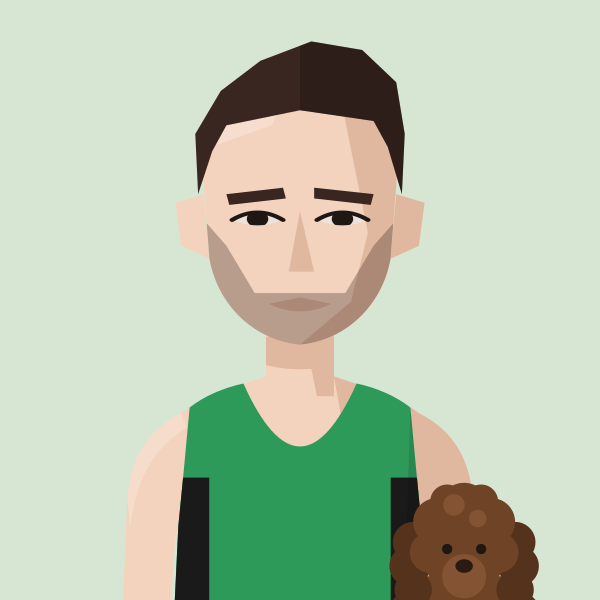
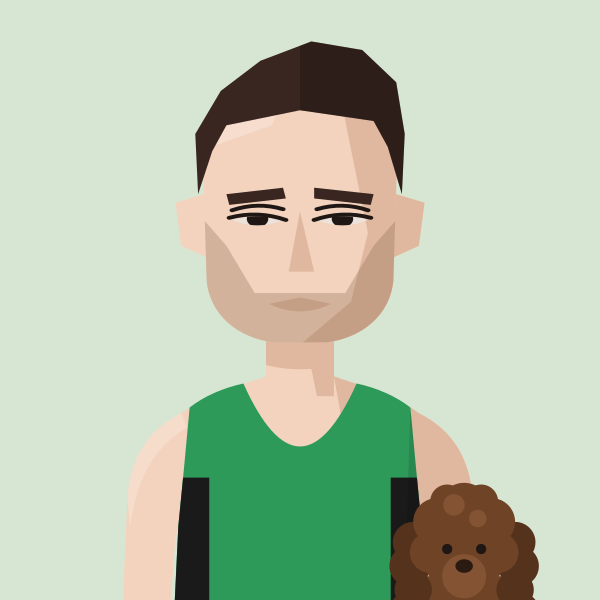
Redraw John Sanderson: hooded eyes, square jaw, light stubble, dark quiff
Claude-Session: https://claude.ai/code/session_01MgmDWhFqnSSnP4iBLKXUZC

Changed region(s): [[0.33, 0.33, 0.66, 0.6], [0.39, 0.33, 0.48, 0.39]]

diff --git a/files/index.html b/files/index.html
@@ -686,7 +686,7 @@ return m;})();
 const portraitFile=(name,club)=>{const k=normalizeNameForCompare(name||'').replace(/\s*\(([^)]*)\)$/,(m,c)=>CLUBS[c.toUpperCase()]?'':m);const a=PORTRAITS[k];if(a&&a.club===club)return a.file;const b=PORTRAITS[k+'@'+club];return b?b.file:null;};
 // Athlete header figure: superstar portrait if we have one, else a grey runner in the club vest, else the plain vest icon
 // Changes whenever any portrait changes (set by tools/build_og.py), so browsers fetch fresh images instead of old cached ones
-const PORTRAIT_V='7fd10700';const PORTRAIT_WOMEN='abbey-brooke,abbie-bulbulian,adele-prince,aimee-hargreaves,aisling-ahern,alex-brown,alex-gandee,alex-marginean,alex-miller,alexa-parker,alexandra-barbour,alice-braham,alice-bridger-morales,alice-crane,alice-martin,alice-reed,alice-smith,alison-purnell,alison-thomson,amy-clements,andrea-barber,anika-schwarze-chintapatla,anna-garnier,anna-garnier-hw,anna-sharp,annabel-hobday,annabelle-hadlow,anne-hegvold,annmarie-seymour,ava-mcandie,becky-briggs,bethan-goddard,bethanie-murray,bethany-brown,betsy-griffiths,billie-mcclosky,camilla-barden,caoimhe-nic-fhogartaigh,carolyne-baxter,catherine-bryson,catherine-eastham,catherine-kandie,cathy-ansell,charlotte-griffiths,chloe-beckett,chloe-tighe,chrissie-wellington,claire-grima,clara-pettit,clare-elms,clare-pauzers,dillan-quinn,dorchie-cockerell,eilidh-hide,elinor-skinner,eliza-grant,elizabeth-apsley,elizabeth-stavreski,ella-fennelly,ella-king-powrie,ella-may-hards,ella-newton,ellie-brown,ellie-freeden,eloise-bull,emilie-arnoux,emily-barrett,emily-bradley,emily-lowery,emily-robbins,emma-gordon,emma-howsham,emma-lord,emma-rowland,estle-viljoen,evie-warren,felicity-cole,felicity-harrison,felicity-hayward,fi-maddocks,fiona-de-mauny,florence-wiggins,gabby-collison,gabriel-reynolds,gemma-newport,genevieve-blanch,georgia-curry,georgie-bruinvels,georgie-fenn,georgie-furze,georgie-grgec,gina-galbraith,grace-leyland,grace-richardson,hannah-edwards,hannah-english,heather-statham,heather-statham-cc,helena-corbin,helena-keenan,holly-nixon,holly-pan,imogen-mackie,imogen-wolsey,iona-cousland,isabel-bradley,isabel-brinsden,isabelle-pickett,isobel-hodder,jennifer-nandi,jennifer-smith,jess-reed,jess-saunders,jess-winfield,jessica-davies,jessica-lowe,jodie-favell,josephine-rhodes,julia-bleasdale,julia-wedmore,juliet-hodder,jurgita-levertaviciute,justine-lynch,karen-fenner,karen-xiang,karina-box,kate-axford,kate-williams,kathy-sharpe,katie-ellen-french,katie-good,katie-snowden,katy-hedgethorne,kitty-shepherd-cross,kristina-popadich,lara-bromilow,lara-mangan,laura-goodson,laura-miles,lauren-major,lea-adamson,lily-newton,lisa-bailey,lisa-thomas,lisa-thomas-hw,lizzie-goldie-scot,louise-cooper,lucy-jones,lucy-macalister,lucy-peters,lydia-blackmore,lydia-gallyer-barnett,maddie-mastrolonardo,maddy-whitman,maeve-kenny,margaret-coogan,martina-conner,mary-james,mary-setyabule,matilde-lomba,megan-gildea,mhairi-hall,mimi-corden-lloyd,molly-oconnor,molly-smith,monika-gajek,naomi-lenane,natalie-beadle,natalie-seymour,natasha-lodge,niamh-thompson,nicky-hayes,nicola-cartlidge,nicola-douglas,nikki-sturzaker,olivia-papaioannou,olivia-stillman,orna-mcginley,pamela-mchutchon,patricia-walker,patrizia-gnoato,penny-oliver,rachel-brown,rebecca-barrow,rebekah-edgar,ruby-carter,ruby-whyte-wilding,ruby-woolfe,sally-urquhart,sam-whiting,samantha-munday,sarah-astin,sarah-dewhirst,sarah-grover,sarah-hanley,sarah-holt,sarah-murphy,sarah-palmer,sarah-palmer-ran,sarah-riceman,sarah-young,saron-haileselase,serena-carter,sophie-cowper,sophie-harris,sophie-hicks,sophie-tooley,stacey-ward,steph-hewitt,steph-mccall,steph-mccall-cc,steph-mccall-slh,steph-mitchell,suzanne-swaine,suze-spalding,suzie-harvey,suzy-whatmough,teresa-murphy,tilly-heaton,tilly-heaton-bel,vic-cartwright,vicky-clarke,victoria-barthelmess,victoria-buck,vikki-filsell,zoe-macdonald,zuzana-nemeckova';const PORTRAIT_MEN='aaron-wilson,abdulla-elsadig,adam-leane,adrian-major,adrien-royer,alan-black,alan-mead,alex-brecker,alex-bruce-littlewood,alex-gutteridge,alex-harris,alex-howard,alex-janiaud,alex-lee,alex-lennon,alex-mills,alex-milne,alex-morales,alex-robinson,alex-yee,alexander-marks,amittai-ben-israel,andrew-cumine,andrew-green,andrew-penney,andrew-perfect,andrew-simms,andrew-warburton,andrius-jaksevicius,andy-coley-maud,andy-coley-maud-cc,andy-fyfe,andy-north,andy-paton,andy-weir,angus-butler,angus-lamb,anisse-ismaili,arlo-ludewick,arne-dumez,arthur-peel,ashley-goncalves,barnaby-day,barry-collins,barry-sawyer,ben-clarke,ben-harding,ben-hurley,ben-ireland,ben-millar,ben-paviour,ben-pearce,ben-racle,ben-revill,ben-reynolds,ben-scott,ben-toomer,benedict-whitby,benjamin-hilson,bernie-ford,bill-kerr,bill-weller,bill-weller-wal,bob-harrison,bob-holt,bob-lunnon,bob-rayman,bob-smith,bradley-courtney-pinn,brandon-dewar,brian-gorman,brian-wilder,caleb-hathaway,callum-stewart,cameron-dockerill,cameron-reilly,carl-delaney,charles-herrington,charlie-dabbs,charlie-dickinson,charlie-eastaugh,charlie-manning,charlie-pickett,charlie-rogers,charlie-sandison,charlie-walker,charlie-wyllie,che-compton,chris-busaileh,chris-busaileh-hhh,chris-greenwood,chris-keavey,chris-moss,chris-steer,chris-threadgold,chris-warren,christian-lee,christopher-parker,clive-gilby,clive-shippen,colin-high,colin-pearson,conall-mcnally,conall-whelan,craig-ruddy,dame-dibaba,dan-cliffe,dan-pettitt,daniel-shaw,daniel-wolff,dave-beard,dave-beaver,dave-glassborow,dave-holt,dave-taylor,david-anderson,david-bowers,david-grima,david-north,david-ogden,david-symons,david-walsh,david-williams,deron-fagan,dick-piotrowski,dimos-evangelidis,dominic-kiralyfi,don-anderson,don-faircloth,don-maclean,doug-maughan,duncan-rimmer,dylan-evans,dylan-mitchard,ed-brewer,ed-catmur,ed-gibson,ed-mallett,eddie-herridge,eddie-jodrell,eddie-rolls,edward-chuck,eoin-brady,eoin-molloy,ethan-mccolgan,falilou-kebe,findlay-dyer,finn-johnson,fintan-pearce,frank-tickner,frank-ward,fred-paget,fred-slemeck,freddie-hessian,garret-lee,gary-ribbons,gary-ribbons-ee,gary-staines,gavin-eccles,geoff-biscoe,geoff-jerwood,geoff-north,george-cotton,george-gathercole,george-jackson,george-loxton,george-mallett,george-ogden,gerry-adams,gerry-north,glen-keegan,gordon-pearce,graham-macky,harrison-hayman,harry-guttridge,hector-revill,henry-hart,henry-silverstein,hugo-hewitt,ian-acreman,ian-crowe-wright,ian-ellwood,ian-harkness,indy-barnes,isaac-lutaya,isaac-parker,jack-brotchie,jack-dickson,jack-dormer,jack-hampshire,jack-harrison,jack-hobden,jack-kavanagh,jack-millar,jack-ramm,jack-woods,jacob-brockmann,jake-simmonds,james-bartram,james-blackwood,james-bowler,james-estall,james-ewing,james-fox,james-hancock,james-harvey,james-hoad,james-kelly,james-mcmullan,james-murray,james-nutt,james-preston,james-roberts,james-stockings,james-ward,james-wootton,jamie-crowe,jamie-parkinson,jared-martin,jean-paul-wright,jeff-cunningham,jeremy-dempsey,jermaine-mays,jerry-watson,jim-allchin,jim-rimmer,joe-english,joe-hartley,john-baker,john-bicourt,john-bromley,john-davies,john-dear,john-foss,john-foxall,john-gilbert,john-gladwin,john-hutchins,john-kendall,john-kimaiyo,john-lee,john-lethbridge,john-mather,john-moore,john-roberts,john-sanderson,john-stow,john-sullivan,john-thresher,jon-hobbs,jon-pepper,jon-pepper-slh,jon-phillips,jon-solly,jonathan-cocker,jonathan-collier,jonathan-cornish,jonathan-ratcliffe,jonathan-tipper,jonathon-blackledge,jonny-neville,jonny-scott,jordan-weaver,josh-mitchell,josh-snow,josh-trigwell,jules-gevers,junior-galley,justin-chaston,justin-reid,kassa-tadesse,keith-newton,kevin-nash,kevin-quinn,kevin-sturman,kieran-barnes,kieran-white,knut-hegvold,knut-hegvold-bel,larry-ryan,lawrence-avery,lee-lintern,lewis-lloyd,liam-burthem,lionel-mann,lloyd-kempson,luke-caldwell,mack-downie,malachi-byansi,marcello-bizio,marcelo-fortes,marco-mazzotta,mark-anderson,mark-miles,mark-sinclair,mark-tennyson,mark-waller,martin-dent,martin-lake,martin-lewington,martin-shore,mathew-speed,matt-chaston,matt-jones,matt-wood,matthew-edgar,matthew-houchell,matthew-thomas,matthew-varley,max-bloor,max-heyden,max-milarvie,max-nicholls,michael-baker,michael-mccarthy,mick-woods,mike-beevor,mike-boyle,mike-cummings,mike-farmery,mike-fuller,mike-hayes,mike-kortenray,mike-nouch,mohammed-ismail,monty-hudson,morgan-roberts,nathan-visick,neil-chisholm,neil-phillips,neil-speaight,neil-wilson,nic-lukies,nick-acfield,nick-altmann,nick-bester,nick-bester-hhh,nick-buckle,nick-bundle,nick-goolab,nick-lightfoot,nick-morris,nick-torry,noah-fernandez,norman-stairs,oli-carrington,oliver-carrington,oliver-fox,oliver-reynolds,oliver-young,ollie-foote,ollie-garrod,olly-buck,owen-hind,paddy-roddy,pancho-panchev,paskar-owor,pat-newell,patrick-mcdougall,paul-calver,paul-cheetham,paul-freary,paul-magner,paul-pollock,pete-carton,pete-gardner,peter-clarke,peter-giles,peter-giles-thh,peter-lighting,phil-carstairs,phil-sanders,phil-sesemann,phil-swinburn,phil-wicks,phil-woodford-smith,raj-paranandi,ralph-street,ranjit-bhatia,ray-foley,reece-edwards,rhys-boorman,rian-mccawley,richard-ashe,richard-giles,richard-henderson,richard-langley,richard-mcdowell,richard-ollington,richard-partridge,richard-sun,richard-ward,rob-armstrong,rob-kelly,rob-tuer,robert-elphick,robert-laing,robert-norville,robert-peacock,robert-sesemann,robin-boon,robin-hudson,roger-alsop,roger-alsop-bel,ron-clark,ron-linstead,ronan-tanguy,rory-mcmahon,rory-orsborn,ross-christie,rowan-board,rowan-crichton,russell-dessaix-chin,ryan-hickey,ryan-mccallister,sam-bramwell,sam-charlton,sam-gebreselassie,sam-peters,sam-sommerville,sam-tyas,samuel-dames,samuel-wilcock,sean-cordon,sebastian-anthony,simon-baines,simon-coombes,simon-coppard,simon-holmes,simon-rayner,simon-rayner-hw,simon-wade,simon-wade-hhh,simon-waterhouse,simon-williams,simon-wurr,sonny-nicoll,spencer-barden,stephen-mcleod,stephen-sharp,steve-gardner,steve-jones,steve-smythe,steve-smythe-hhh,stuart-beaney,stuart-major,stuart-major-thh,stuart-mccallum,stuart-paton,terry-booth,thomas-dugre,thomas-gandee,thomas-gardner,thomas-renshaw,tim-alexander,tim-eglen,tim-lawrence,tim-watson,toby-cooke,toby-fletcher,tom-austin,tom-cheetham,tom-conlon,tom-davies,tom-gifford,tom-jervis,tom-lole,tom-south,tom-thornley,tommy-taylor,tony-binda,tony-fairclough,tony-harran,trevor-hart,valdis-pauzers,valentin-rigori,vic-maughan,will-cockerell,will-lewis,will-marshall,will-scott,will-stockley,william-gardner,yacin-yusuf,zach-nolan';
+const PORTRAIT_V='ead80890';const PORTRAIT_WOMEN='abbey-brooke,abbie-bulbulian,adele-prince,aimee-hargreaves,aisling-ahern,alex-brown,alex-gandee,alex-marginean,alex-miller,alexa-parker,alexandra-barbour,alice-braham,alice-bridger-morales,alice-crane,alice-martin,alice-reed,alice-smith,alison-purnell,alison-thomson,amy-clements,andrea-barber,anika-schwarze-chintapatla,anna-garnier,anna-garnier-hw,anna-sharp,annabel-hobday,annabelle-hadlow,anne-hegvold,annmarie-seymour,ava-mcandie,becky-briggs,bethan-goddard,bethanie-murray,bethany-brown,betsy-griffiths,billie-mcclosky,camilla-barden,caoimhe-nic-fhogartaigh,carolyne-baxter,catherine-bryson,catherine-eastham,catherine-kandie,cathy-ansell,charlotte-griffiths,chloe-beckett,chloe-tighe,chrissie-wellington,claire-grima,clara-pettit,clare-elms,clare-pauzers,dillan-quinn,dorchie-cockerell,eilidh-hide,elinor-skinner,eliza-grant,elizabeth-apsley,elizabeth-stavreski,ella-fennelly,ella-king-powrie,ella-may-hards,ella-newton,ellie-brown,ellie-freeden,eloise-bull,emilie-arnoux,emily-barrett,emily-bradley,emily-lowery,emily-robbins,emma-gordon,emma-howsham,emma-lord,emma-rowland,estle-viljoen,evie-warren,felicity-cole,felicity-harrison,felicity-hayward,fi-maddocks,fiona-de-mauny,florence-wiggins,gabby-collison,gabriel-reynolds,gemma-newport,genevieve-blanch,georgia-curry,georgie-bruinvels,georgie-fenn,georgie-furze,georgie-grgec,gina-galbraith,grace-leyland,grace-richardson,hannah-edwards,hannah-english,heather-statham,heather-statham-cc,helena-corbin,helena-keenan,holly-nixon,holly-pan,imogen-mackie,imogen-wolsey,iona-cousland,isabel-bradley,isabel-brinsden,isabelle-pickett,isobel-hodder,jennifer-nandi,jennifer-smith,jess-reed,jess-saunders,jess-winfield,jessica-davies,jessica-lowe,jodie-favell,josephine-rhodes,julia-bleasdale,julia-wedmore,juliet-hodder,jurgita-levertaviciute,justine-lynch,karen-fenner,karen-xiang,karina-box,kate-axford,kate-williams,kathy-sharpe,katie-ellen-french,katie-good,katie-snowden,katy-hedgethorne,kitty-shepherd-cross,kristina-popadich,lara-bromilow,lara-mangan,laura-goodson,laura-miles,lauren-major,lea-adamson,lily-newton,lisa-bailey,lisa-thomas,lisa-thomas-hw,lizzie-goldie-scot,louise-cooper,lucy-jones,lucy-macalister,lucy-peters,lydia-blackmore,lydia-gallyer-barnett,maddie-mastrolonardo,maddy-whitman,maeve-kenny,margaret-coogan,martina-conner,mary-james,mary-setyabule,matilde-lomba,megan-gildea,mhairi-hall,mimi-corden-lloyd,molly-oconnor,molly-smith,monika-gajek,naomi-lenane,natalie-beadle,natalie-seymour,natasha-lodge,niamh-thompson,nicky-hayes,nicola-cartlidge,nicola-douglas,nikki-sturzaker,olivia-papaioannou,olivia-stillman,orna-mcginley,pamela-mchutchon,patricia-walker,patrizia-gnoato,penny-oliver,rachel-brown,rebecca-barrow,rebekah-edgar,ruby-carter,ruby-whyte-wilding,ruby-woolfe,sally-urquhart,sam-whiting,samantha-munday,sarah-astin,sarah-dewhirst,sarah-grover,sarah-hanley,sarah-holt,sarah-murphy,sarah-palmer,sarah-palmer-ran,sarah-riceman,sarah-young,saron-haileselase,serena-carter,sophie-cowper,sophie-harris,sophie-hicks,sophie-tooley,stacey-ward,steph-hewitt,steph-mccall,steph-mccall-cc,steph-mccall-slh,steph-mitchell,suzanne-swaine,suze-spalding,suzie-harvey,suzy-whatmough,teresa-murphy,tilly-heaton,tilly-heaton-bel,vic-cartwright,vicky-clarke,victoria-barthelmess,victoria-buck,vikki-filsell,zoe-macdonald,zuzana-nemeckova';const PORTRAIT_MEN='aaron-wilson,abdulla-elsadig,adam-leane,adrian-major,adrien-royer,alan-black,alan-mead,alex-brecker,alex-bruce-littlewood,alex-gutteridge,alex-harris,alex-howard,alex-janiaud,alex-lee,alex-lennon,alex-mills,alex-milne,alex-morales,alex-robinson,alex-yee,alexander-marks,amittai-ben-israel,andrew-cumine,andrew-green,andrew-penney,andrew-perfect,andrew-simms,andrew-warburton,andrius-jaksevicius,andy-coley-maud,andy-coley-maud-cc,andy-fyfe,andy-north,andy-paton,andy-weir,angus-butler,angus-lamb,anisse-ismaili,arlo-ludewick,arne-dumez,arthur-peel,ashley-goncalves,barnaby-day,barry-collins,barry-sawyer,ben-clarke,ben-harding,ben-hurley,ben-ireland,ben-millar,ben-paviour,ben-pearce,ben-racle,ben-revill,ben-reynolds,ben-scott,ben-toomer,benedict-whitby,benjamin-hilson,bernie-ford,bill-kerr,bill-weller,bill-weller-wal,bob-harrison,bob-holt,bob-lunnon,bob-rayman,bob-smith,bradley-courtney-pinn,brandon-dewar,brian-gorman,brian-wilder,caleb-hathaway,callum-stewart,cameron-dockerill,cameron-reilly,carl-delaney,charles-herrington,charlie-dabbs,charlie-dickinson,charlie-eastaugh,charlie-manning,charlie-pickett,charlie-rogers,charlie-sandison,charlie-walker,charlie-wyllie,che-compton,chris-busaileh,chris-busaileh-hhh,chris-greenwood,chris-keavey,chris-moss,chris-steer,chris-threadgold,chris-warren,christian-lee,christopher-parker,clive-gilby,clive-shippen,colin-high,colin-pearson,conall-mcnally,conall-whelan,craig-ruddy,dame-dibaba,dan-cliffe,dan-pettitt,daniel-shaw,daniel-wolff,dave-beard,dave-beaver,dave-glassborow,dave-holt,dave-taylor,david-anderson,david-bowers,david-grima,david-north,david-ogden,david-symons,david-walsh,david-williams,deron-fagan,dick-piotrowski,dimos-evangelidis,dominic-kiralyfi,don-anderson,don-faircloth,don-maclean,doug-maughan,duncan-rimmer,dylan-evans,dylan-mitchard,ed-brewer,ed-catmur,ed-gibson,ed-mallett,eddie-herridge,eddie-jodrell,eddie-rolls,edward-chuck,eoin-brady,eoin-molloy,ethan-mccolgan,falilou-kebe,findlay-dyer,finn-johnson,fintan-pearce,frank-tickner,frank-ward,fred-paget,fred-slemeck,freddie-hessian,garret-lee,gary-ribbons,gary-ribbons-ee,gary-staines,gavin-eccles,geoff-biscoe,geoff-jerwood,geoff-north,george-cotton,george-gathercole,george-jackson,george-loxton,george-mallett,george-ogden,gerry-adams,gerry-north,glen-keegan,gordon-pearce,graham-macky,harrison-hayman,harry-guttridge,hector-revill,henry-hart,henry-silverstein,hugo-hewitt,ian-acreman,ian-crowe-wright,ian-ellwood,ian-harkness,indy-barnes,isaac-lutaya,isaac-parker,jack-brotchie,jack-dickson,jack-dormer,jack-hampshire,jack-harrison,jack-hobden,jack-kavanagh,jack-millar,jack-ramm,jack-woods,jacob-brockmann,jake-simmonds,james-bartram,james-blackwood,james-bowler,james-estall,james-ewing,james-fox,james-hancock,james-harvey,james-hoad,james-kelly,james-mcmullan,james-murray,james-nutt,james-preston,james-roberts,james-stockings,james-ward,james-wootton,jamie-crowe,jamie-parkinson,jared-martin,jean-paul-wright,jeff-cunningham,jeremy-dempsey,jermaine-mays,jerry-watson,jim-allchin,jim-rimmer,joe-english,joe-hartley,john-baker,john-bicourt,john-bromley,john-davies,john-dear,john-foss,john-foxall,john-gilbert,john-gladwin,john-hutchins,john-kendall,john-kimaiyo,john-lee,john-lethbridge,john-mather,john-moore,john-roberts,john-sanderson,john-stow,john-sullivan,john-thresher,jon-hobbs,jon-pepper,jon-pepper-slh,jon-phillips,jon-solly,jonathan-cocker,jonathan-collier,jonathan-cornish,jonathan-ratcliffe,jonathan-tipper,jonathon-blackledge,jonny-neville,jonny-scott,jordan-weaver,josh-mitchell,josh-snow,josh-trigwell,jules-gevers,junior-galley,justin-chaston,justin-reid,kassa-tadesse,keith-newton,kevin-nash,kevin-quinn,kevin-sturman,kieran-barnes,kieran-white,knut-hegvold,knut-hegvold-bel,larry-ryan,lawrence-avery,lee-lintern,lewis-lloyd,liam-burthem,lionel-mann,lloyd-kempson,luke-caldwell,mack-downie,malachi-byansi,marcello-bizio,marcelo-fortes,marco-mazzotta,mark-anderson,mark-miles,mark-sinclair,mark-tennyson,mark-waller,martin-dent,martin-lake,martin-lewington,martin-shore,mathew-speed,matt-chaston,matt-jones,matt-wood,matthew-edgar,matthew-houchell,matthew-thomas,matthew-varley,max-bloor,max-heyden,max-milarvie,max-nicholls,michael-baker,michael-mccarthy,mick-woods,mike-beevor,mike-boyle,mike-cummings,mike-farmery,mike-fuller,mike-hayes,mike-kortenray,mike-nouch,mohammed-ismail,monty-hudson,morgan-roberts,nathan-visick,neil-chisholm,neil-phillips,neil-speaight,neil-wilson,nic-lukies,nick-acfield,nick-altmann,nick-bester,nick-bester-hhh,nick-buckle,nick-bundle,nick-goolab,nick-lightfoot,nick-morris,nick-torry,noah-fernandez,norman-stairs,oli-carrington,oliver-carrington,oliver-fox,oliver-reynolds,oliver-young,ollie-foote,ollie-garrod,olly-buck,owen-hind,paddy-roddy,pancho-panchev,paskar-owor,pat-newell,patrick-mcdougall,paul-calver,paul-cheetham,paul-freary,paul-magner,paul-pollock,pete-carton,pete-gardner,peter-clarke,peter-giles,peter-giles-thh,peter-lighting,phil-carstairs,phil-sanders,phil-sesemann,phil-swinburn,phil-wicks,phil-woodford-smith,raj-paranandi,ralph-street,ranjit-bhatia,ray-foley,reece-edwards,rhys-boorman,rian-mccawley,richard-ashe,richard-giles,richard-henderson,richard-langley,richard-mcdowell,richard-ollington,richard-partridge,richard-sun,richard-ward,rob-armstrong,rob-kelly,rob-tuer,robert-elphick,robert-laing,robert-norville,robert-peacock,robert-sesemann,robin-boon,robin-hudson,roger-alsop,roger-alsop-bel,ron-clark,ron-linstead,ronan-tanguy,rory-mcmahon,rory-orsborn,ross-christie,rowan-board,rowan-crichton,russell-dessaix-chin,ryan-hickey,ryan-mccallister,sam-bramwell,sam-charlton,sam-gebreselassie,sam-peters,sam-sommerville,sam-tyas,samuel-dames,samuel-wilcock,sean-cordon,sebastian-anthony,simon-baines,simon-coombes,simon-coppard,simon-holmes,simon-rayner,simon-rayner-hw,simon-wade,simon-wade-hhh,simon-waterhouse,simon-williams,simon-wurr,sonny-nicoll,spencer-barden,stephen-mcleod,stephen-sharp,steve-gardner,steve-jones,steve-smythe,steve-smythe-hhh,stuart-beaney,stuart-major,stuart-major-thh,stuart-mccallum,stuart-paton,terry-booth,thomas-dugre,thomas-gandee,thomas-gardner,thomas-renshaw,tim-alexander,tim-eglen,tim-lawrence,tim-watson,toby-cooke,toby-fletcher,tom-austin,tom-cheetham,tom-conlon,tom-davies,tom-gifford,tom-jervis,tom-lole,tom-south,tom-thornley,tommy-taylor,tony-binda,tony-fairclough,tony-harran,trevor-hart,valdis-pauzers,valentin-rigori,vic-maughan,will-cockerell,will-lewis,will-marshall,will-scott,will-stockley,william-gardner,yacin-yusuf,zach-nolan';
 const AthletePortrait=({name,club,w,fill,onClick,blink})=>{const[failed,setFailed]=useState(false);const file=portraitFile(name,club);const src0=file?`/portraits/athletes/${file}.svg?v=${PORTRAIT_V}`:PORTRAIT_CLUBS.has(club)?`/portraits/clubs/${club.replace(/\//g,'').replace(/&/g,'and')}.svg?v=${PORTRAIT_V}`:null;const blinkSrc=useBlinkSrc(file?(file==='john-sanderson'?`/portraits/athletes/john-sanderson-dog.svg?v=${PORTRAIT_V}`:src0):null,!!blink);const src=blinkSrc||src0;if(!src||failed)return<div onClick={onClick} className={onClick?'cursor-pointer':''}><ClubShield club={club} size={w}/></div>;const h=Math.round(w*148/126),ih=Math.round(w*1.4);if(fill)return<div onClick={onClick} className="cursor-pointer" style={{alignSelf:'stretch',minHeight:h,aspectRatio:'126 / 148',flexShrink:0,position:'relative',borderRadius:4,overflow:'hidden'}}><img src={src} alt={file?`Portrait of ${name.replace(/\s*\([^)]*\)$/,'')}`:`Runner in ${CLUBS[club]?.name||club} vest`} style={{position:'absolute',top:0,left:0,display:'block',width:'100%',height:'auto'}} onError={()=>setFailed(true)}/></div>;return<div style={{width:w,height:h,borderRadius:4,overflow:'hidden',flexShrink:0}}><img src={src} alt={file?`Portrait of ${name.replace(/\s*\([^)]*\)$/,'')}`:`Runner in ${CLUBS[club]?.name||club} vest`} width={w} height={ih} style={{display:'block',width:w,height:ih}} onError={()=>setFailed(true)}/></div>;};
 const getClubVestSvg=(club)=>{
   const p="M3 0 L6 0 Q7 4 10 5 Q13 4 14 0 L17 0 L17 20 L3 20 Z";

diff --git a/tools/gen_portraits.py b/tools/gen_portraits.py
@@ -470,9 +470,6 @@ save("mccallum", figure("H/W", skin=1, hair="messyfringe", hair_colour="#3A2620"
 save("penney", figure("H/W", skin=1, hair="quiff", hair_colour="dark brown"))
 save("dempsey", figure("THH", skin=1, hair="croppeak", hair_colour="blonde"))
 save("hart", figure("BEL", skin=1, hair="tousled", hair_colour="light brown"))
-save("sanderson", figure("G&G", skin=1, hair="quiff", hair_colour="dark brown", facial="stubble"))
-# profile-page-only version: his dog sits inside the athlete-page crop; the site animates it popping up at the end of the blink loop
-save("sanderson_dog", with_dog(figure("G&G", skin=1, hair="quiff", hair_colour="dark brown", facial="stubble"), cx=158, cy=214, s=1.2))
 save("fyfe", figure("BEL", skin=2, hair="tousled", hair_colour="dark brown", facial="stubble"))
 save("hair_tousled", figure("HOL", skin=2, hair="tousled", hair_colour="mid brown"))
 save("saron", figure("BEL", skin=4, hair="ponytail", hair_colour="black"))
@@ -1507,4 +1504,9 @@ def export_site(site_dir="/home/claude/surrey-league/files/portraits/athletes", 
         src = f"v4/{SITE_NAMES.get(slug, slug)}.svg"
         if os.path.exists(src):
             shutil.copy(src, f"{out}/{slug}.svg")
+# John Sanderson, redrawn Oct 2026: hooded eyes, square jaw, light stubble, current dark quiff
+save("sanderson", eyes(figure("G&G", skin=1, hair="quiff", hair_colour="dark brown", facial="stubble", facial_colour="#8A6A50", jaw="square"), "hooded"))
+# profile-page-only version: his dog sits inside the athlete-page crop; the site animates it popping up at the end of the blink loop
+save("sanderson_dog", with_dog(eyes(figure("G&G", skin=1, hair="quiff", hair_colour="dark brown", facial="stubble", facial_colour="#8A6A50", jaw="square"), "hooded"), cx=158, cy=214, s=1.2))
+
 export_site()
